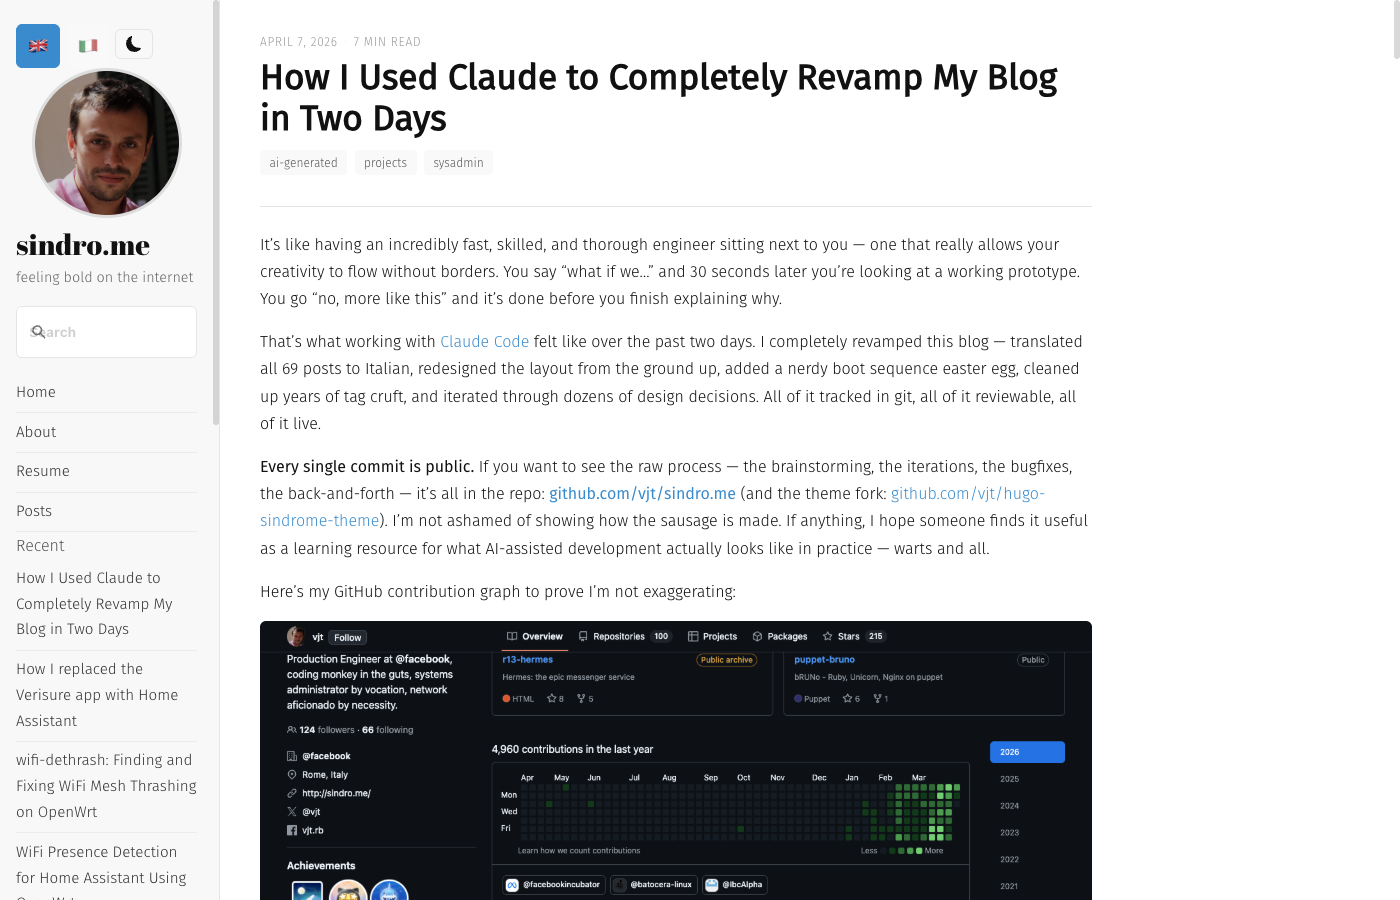
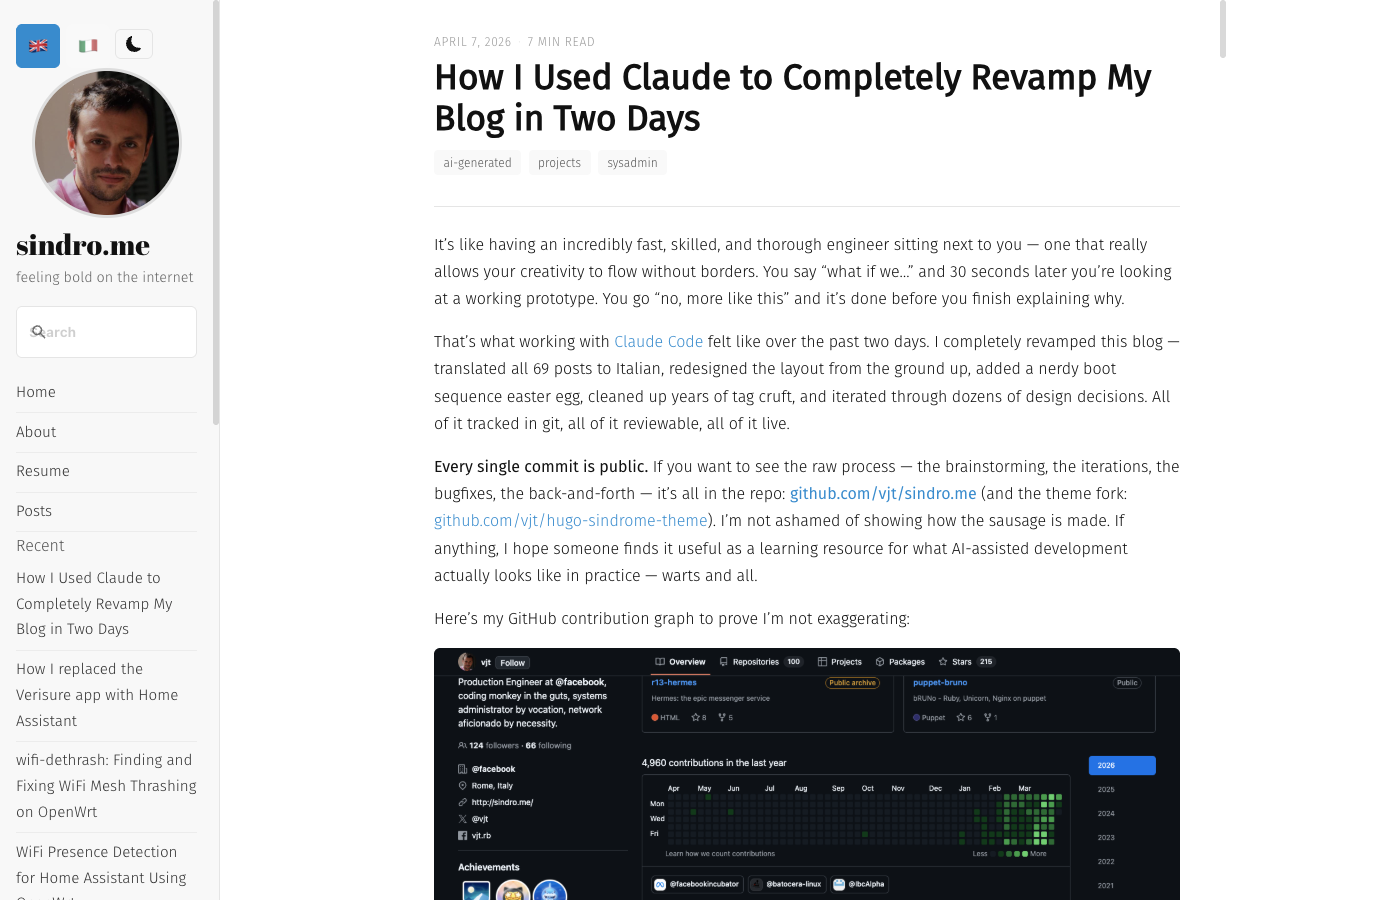
fix: full width on homepage/lists, max-width only on single post content

diff --git a/assets/css/layout.css b/assets/css/layout.css
@@ -218,8 +218,12 @@ body:not(.has-toc) .wrapper {
   overflow-y: auto;
   height: 100vh;
   padding: 2rem 2.5rem;
+}
+
+/* Cap reading width on single posts, let homepage/lists breathe */
+.post > *,
+.content.container > .post > * {
   max-width: 52rem;
-  margin: 0 auto;
 }
 
 .content.container::-webkit-scrollbar { width: 6px; }
